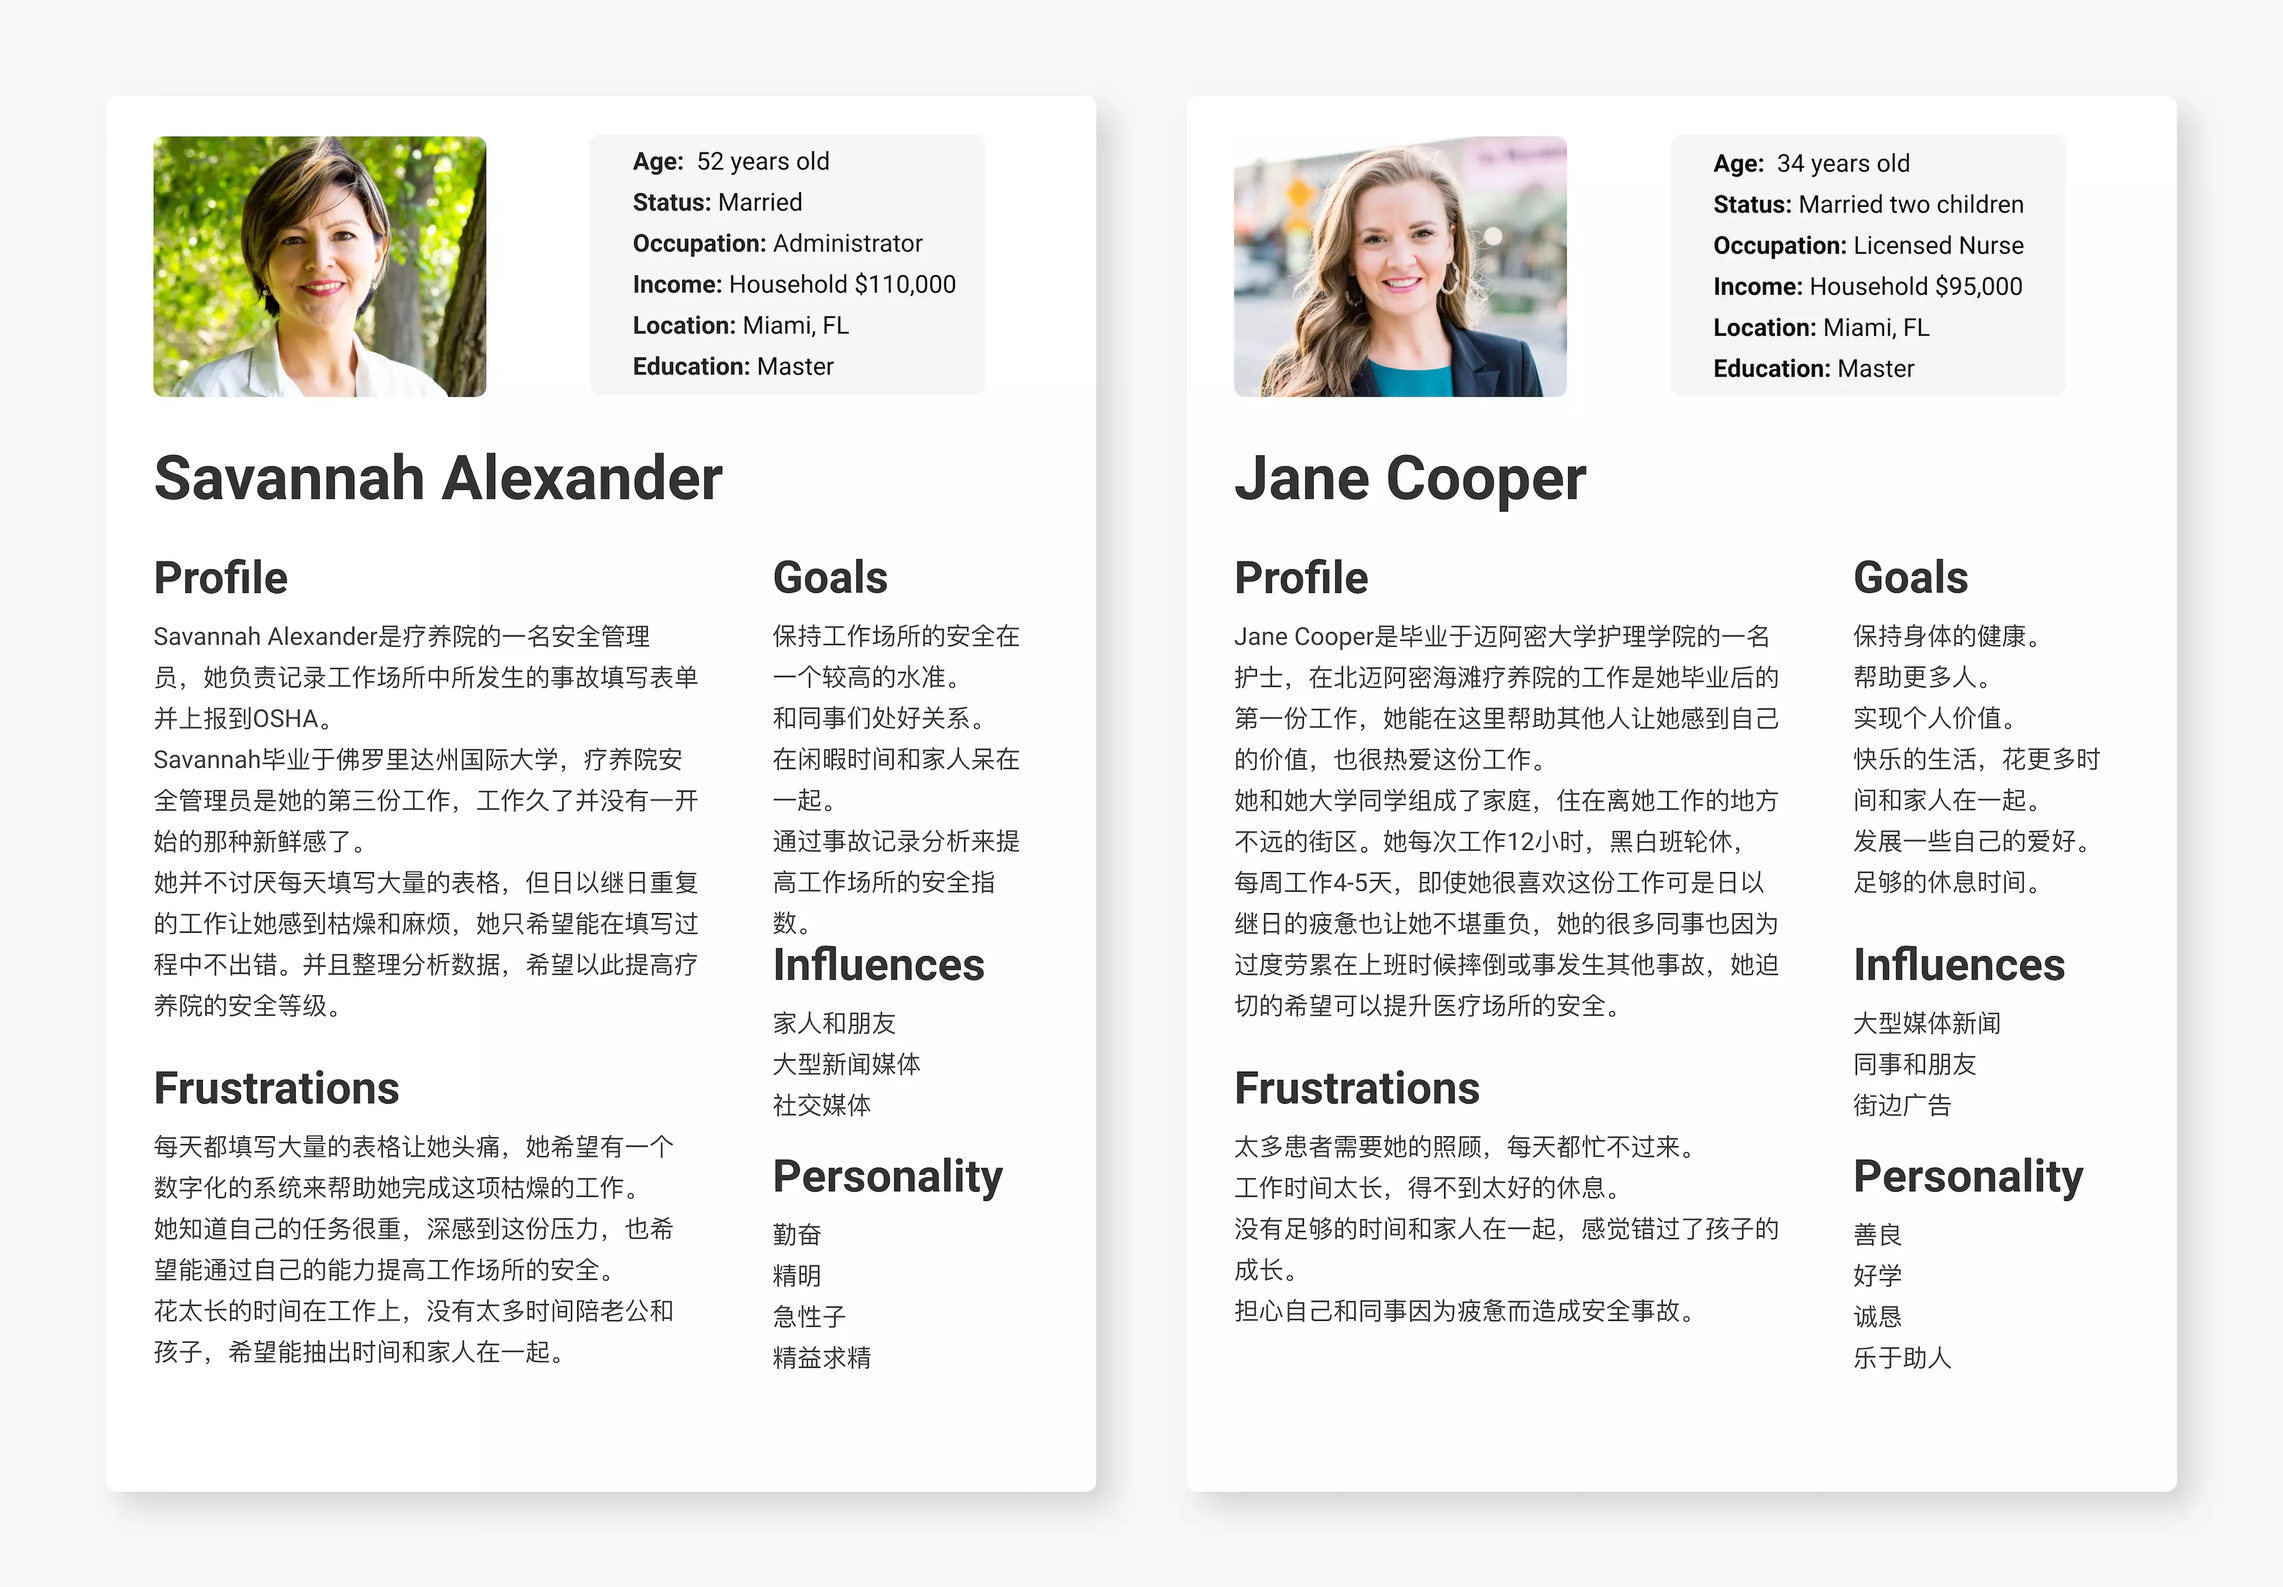
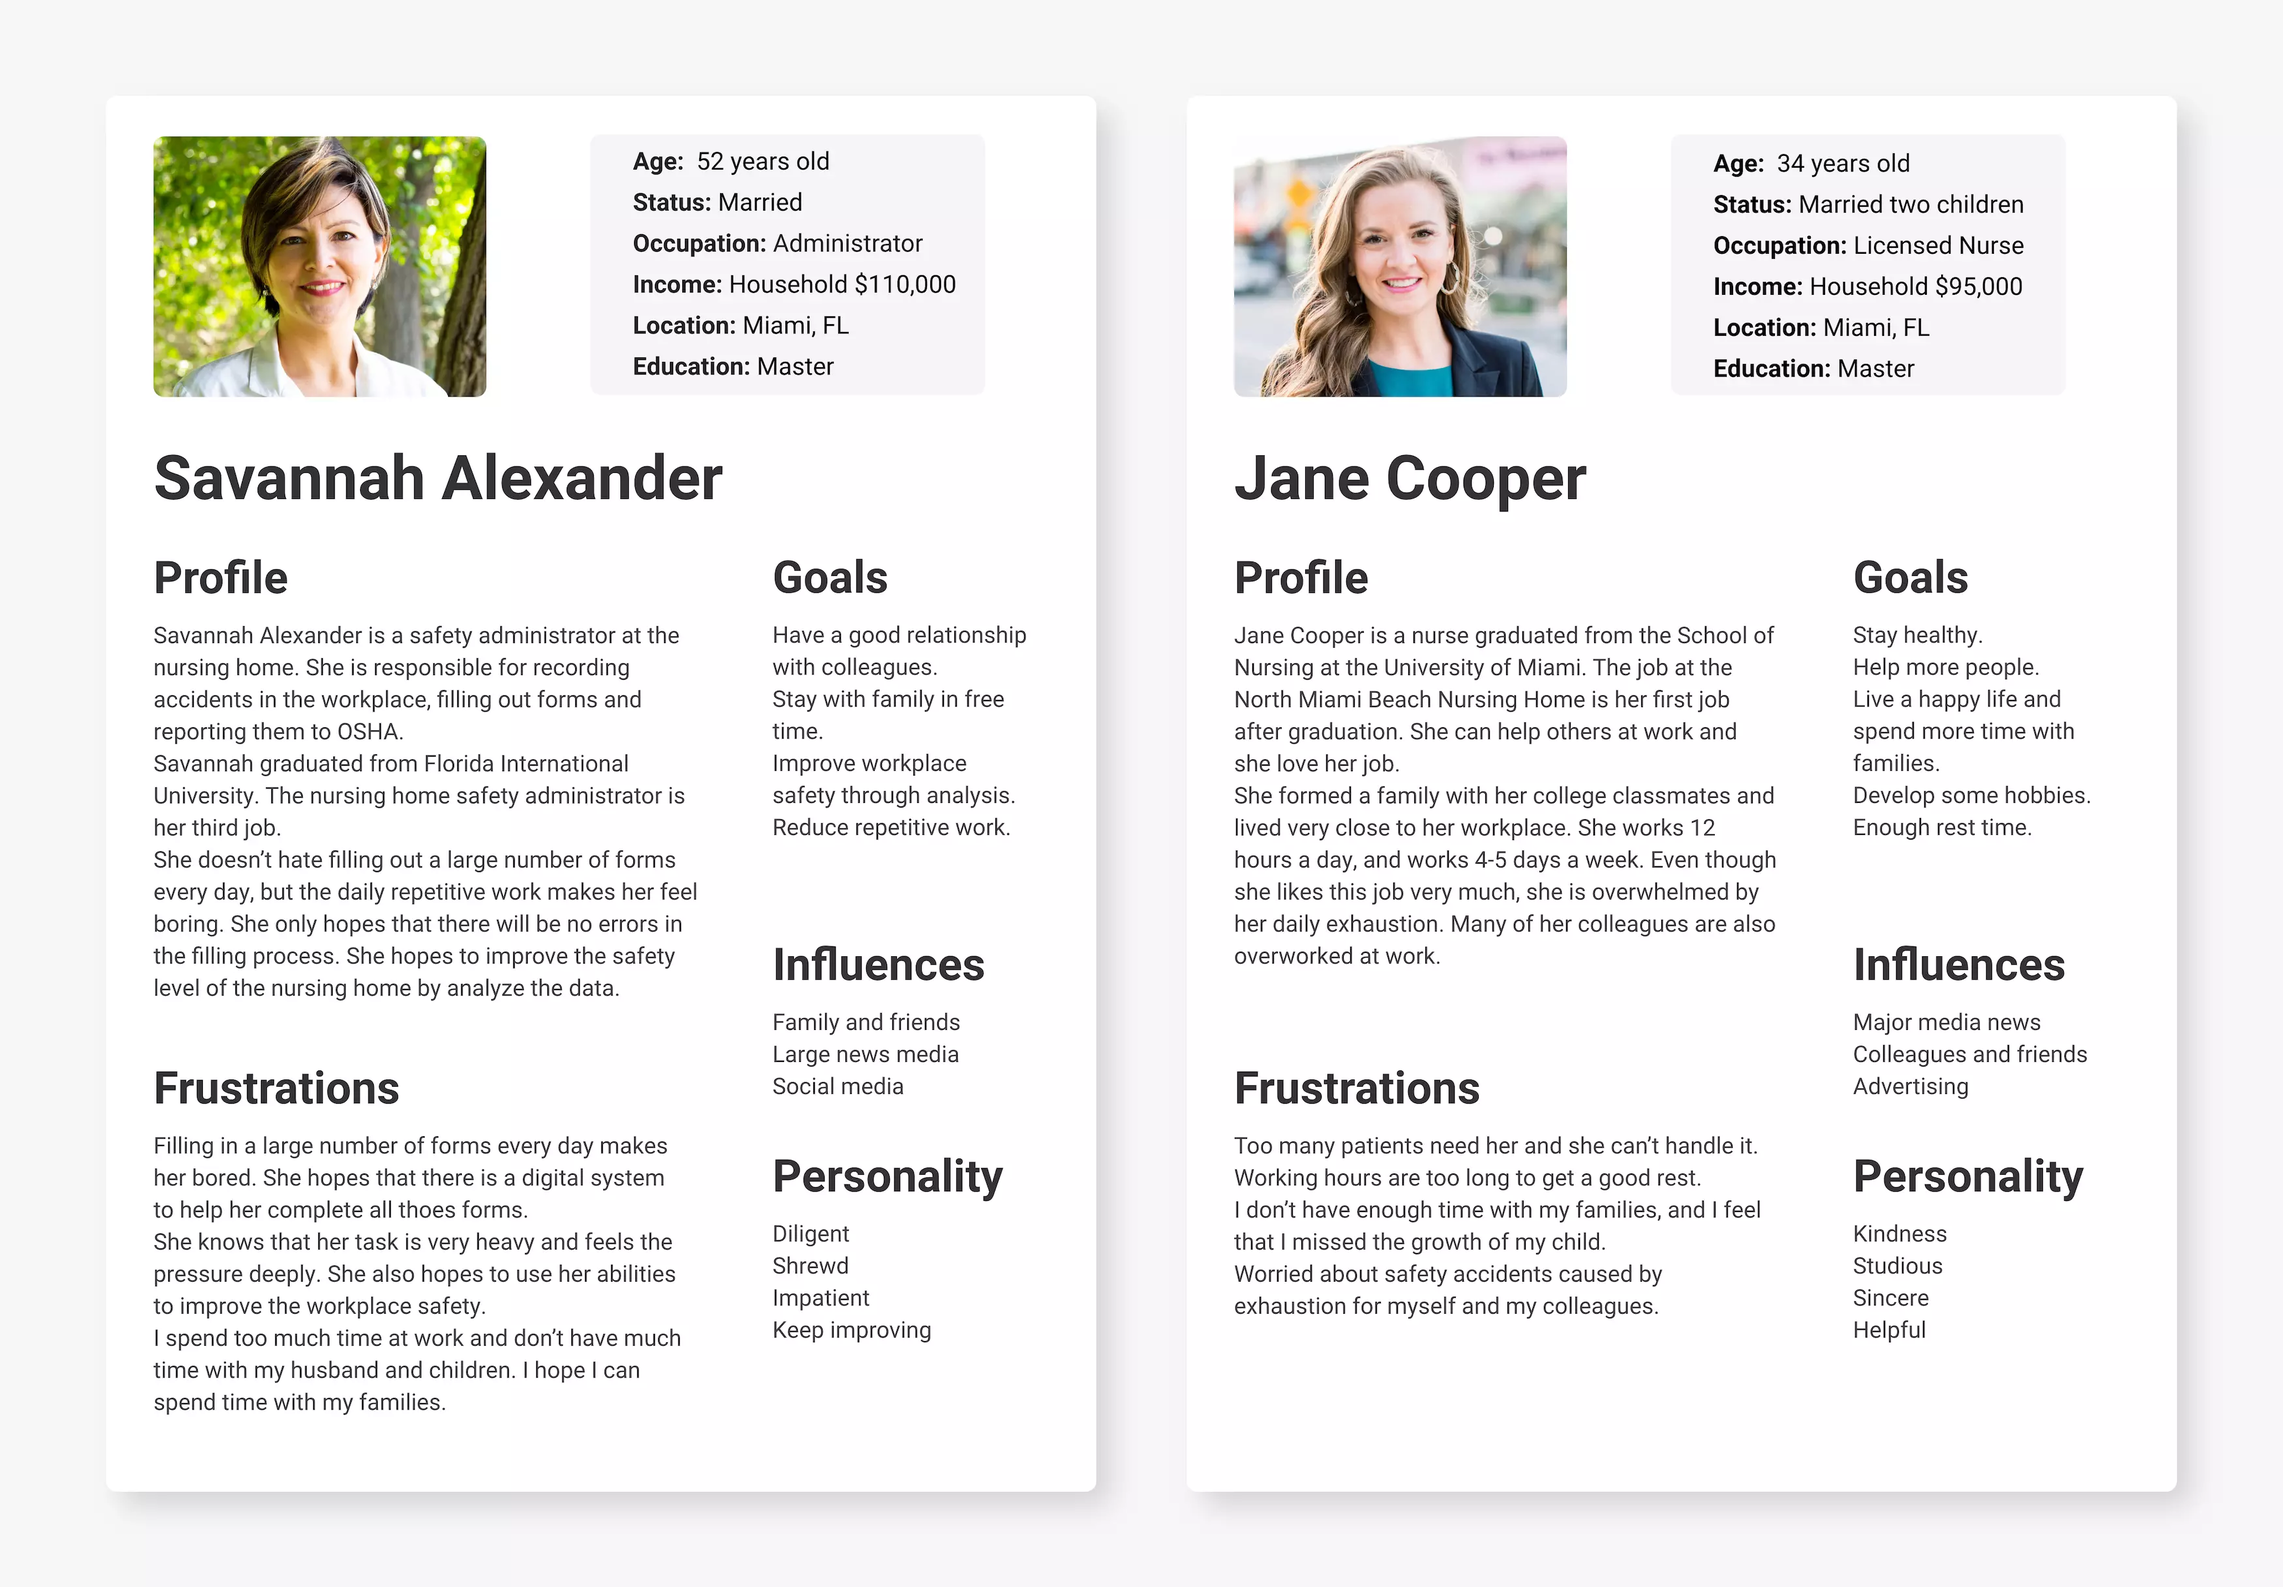
update info

diff --git a/stay-safe-umiami.html b/stay-safe-umiami.html
@@ -121,8 +121,12 @@
       <li>5 participants for user segment B (students taking only online classes)</li>
       <li>4 participants for user segment C (faculty)</li>
     </ul>
+    <p>The image below is the diagrams of our survey results.</p>
+  </div>
+  <figure><img src="images/StaySafeUMiami/Survey.webp" alt="Survey results"/></figure>
+  <div>
     <h3>Affinity Diagrams</h3>
-    <p>We grouped our research findings using Affinity Diagrams</p>
+    <p>We grouped our research findings using Affinity Diagrams.</p>
   </div>
   <figure><img src="images/StaySafeUMiami/Affinity_Diagrams.webp" alt="Affinity Diagrams"/></figure>
   <div>
@@ -150,6 +154,12 @@
       <li>Notification system for COVID-19 information such as the number of cases on campus</li>
     </ul>
   </div>
+    
+  <div>
+    <h2>Persona</h2>
+    <p>After conducting user research, I made two personas, and they are a student of the University of Miami and a professor of the University of Miami. I was tring to restore the people I met during user research and think about their needs during the design process.</p>
+  </div>
+  <figure><img src="images/StaySafeUMiami/StaySafe_Persona.webp" alt="Persona" /></figure>
 
   <div>
     <h2>Product Description</h2>

diff --git a/error-reporting-system.html b/error-reporting-system.html
@@ -95,6 +95,12 @@
       <li>Administrators.</li>
     </ul>
   </div>
+    
+  <div>    
+  <h2>Persona</h2>
+    <p>According to Dr. Millet's user research and our target users, I made two personas. They are safety administrator and licensed nurse. I will think about their needs and goals during the design process, and use design to solve their problems.</p>
+  </div>
+  <figure><img src="images/ErrorReportingSystem/Error_Persona.webp" alt="Persona" /></figure>
 
   <div>
     <h2>Secondary Research</h2>

diff --git a/know-your-grove.html b/know-your-grove.html
@@ -111,7 +111,7 @@
       <li>Tourists think it may be unsafe to look at a mobile phone while they are riding a bike.</li>
     </ul>
   </div>
-
+    
   <div>
     <h2>Product description</h2>
     <p>App Know Your Grove will help users find the locations of attractions in Coconut Grove and provide navigation based on the user's location.
